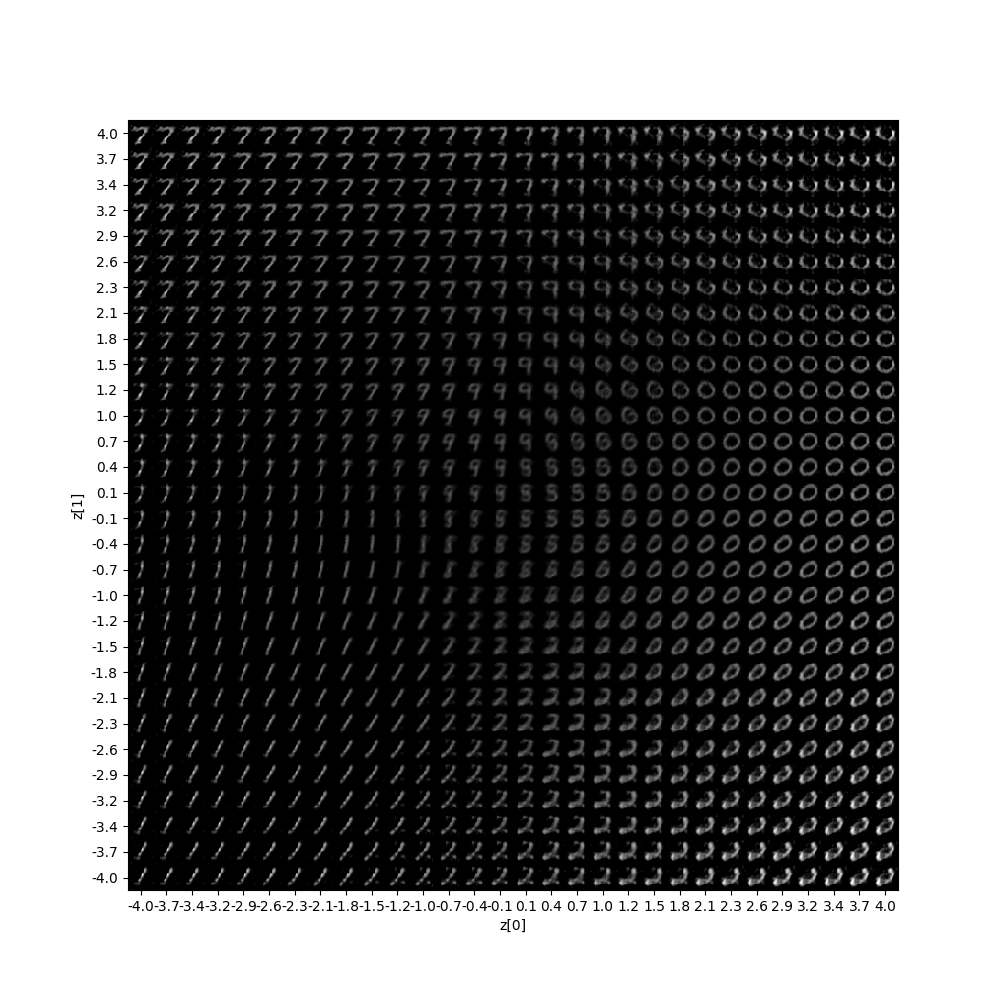
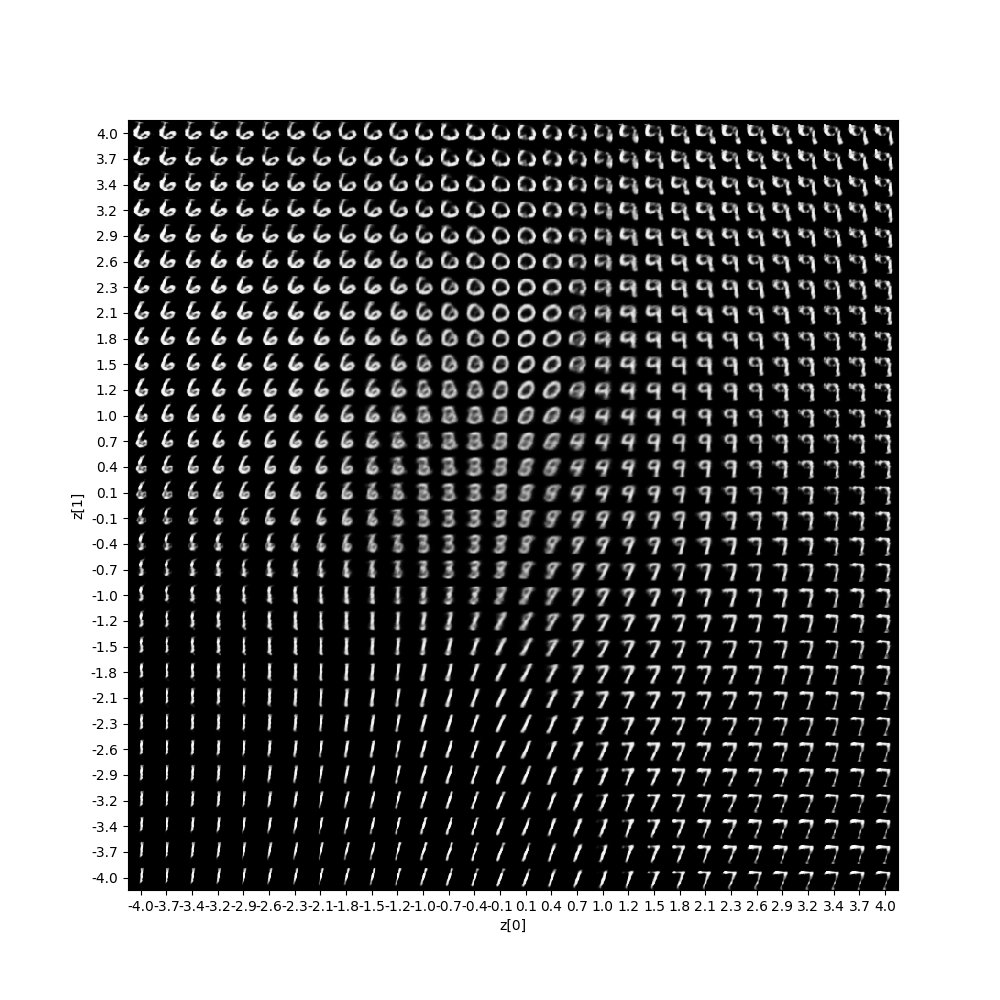
further development on VAE model, added data folder

Changed region(s): [[0.124, 0.124, 0.899, 0.899]]

diff --git a/Autoencoder/Models.py b/Autoencoder/Models.py
@@ -5,20 +5,28 @@ import os
 
 from keras.layers import Lambda, Input, Conv2D, MaxPooling2D, UpSampling2D, Dense, Flatten, Reshape
 from keras.models import Model
-from keras.losses import mse
+from keras.losses import mse, binary_crossentropy
 from keras import backend as K
-from keras.utils import plot_model
+from keras.utils import plot_model, multi_gpu_model
 from keras.datasets import mnist
+from keras import optimizers
 
 #TODO build VAE class
 class VAE:
 
-    def __init__(self, input_shape, layers, filters, latent_dims):
+    def __init__(self, input_shape, layers, filters, latent_dims, beta, lr):
         self.encoder = self.encoder_model(input_shape, layers, filters, latent_dims)
         self.decoder = self.decoder_model(input_shape, layers, filters, latent_dims)
         self.inputs = self.encoder.inputs
         self.outputs = self.decoder(self.encoder(self.encoder.inputs)[2])
         self.autoencoder = Model(self.inputs, self.outputs, name='Autoencoder')
+        self._params = {'in_shape' : input_shape,
+                        'layers' : layers,
+                        'filters' : filters,
+                        'latent_dims' : latent_dims,
+                        'beta' : beta * latent_dims / input_shape[1]**2,
+                        'learning_rate' : lr,
+                       }
 
     #TODO build encoder model, variable n. of layers, mean and sigma latent space
     def encoder_model(self, input_shape, layers, filters, latent_dims):
@@ -51,6 +59,8 @@ class VAE:
         self.z = Lambda(VAE_sampling, output_shape=(latent_dims,), name='z')([self.z_mean,self.z_sigma])
         encoder = Model(l[0], [self.z_mean,self.z_sigma,self.z], name='encoder')
 
+        encoder.summary()
+
         return encoder
 
     def decoder_model(self, input_shape, layers, filters, latent_dims):
@@ -81,15 +91,21 @@ class VAE:
                             data_format='channels_last', name='DeConv_'+str(i),
                             activation='relu')(l[i*2+1]))
 
+        l.append(Conv2D(1, (3,3), padding='same',
+                        data_format='channels_last', name='decoder_output',
+                        activation='sigmoid')(l[-1]))
+
         decoder = Model(latent_inputs, l[-1], name='decoder')
+
+        decoder.summary()
 
         return decoder
 
     def compile_model(self):
 
-        self.reconstruction_loss = mse(K.flatten(self.inputs), 
-                                       K.flatten(self.outputs))
-        self.reconstruction_loss *= self.autoencoder.input_shape[1]*self.autoencoder.input_shape[1]
+        self.reconstruction_loss = (binary_crossentropy(K.flatten(self.inputs), 
+                                       K.flatten(self.outputs)))
+        #self.reconstruction_loss *= self.autoencoder.input_shape[1]*self.autoencoder.input_shape[1]
 
         self.kl_loss = (1 + self.z_sigma - 
                   K.square(self.z_mean) - 
@@ -97,11 +113,18 @@ class VAE:
         self.kl_loss = K.sum(self.kl_loss, axis=-1)
         self.kl_loss *= -0.5
 
-        vae_loss = K.mean(self.reconstruction_loss+self.kl_loss)
+        vae_loss = K.mean(self.reconstruction_loss+self._params['beta']*self.kl_loss)
 
         self.autoencoder.add_loss(vae_loss)
 
-        self.autoencoder.compile(optimizer='adam')
+        try:
+            self.autoencoder = multi_gpu_model(self.autoencoder, gpus=2)
+            print("Training using multiple GPUs..")
+        except ValueError:
+            self.autoencoder = self.autoencoder
+            print("Training using single GPU or CPU..")
+
+        self.autoencoder.compile(optimizers.Adam(lr=self._params['learning_rate']))
 
     def plot_models(self):
         self.autoencoder.summary()
@@ -193,22 +216,30 @@ def plot_results(models,
 
 if __name__ == '__main__':
     (x_train, y_train), (x_test, y_test) = mnist.load_data()
+
     image_size = x_train.shape[1]
     x_train = np.reshape(x_train, [-1, image_size, image_size, 1])
     x_test = np.reshape(x_test, [-1, image_size, image_size, 1])
     x_train = x_train.astype('float32') / 255
     x_test = x_test.astype('float32') / 255
+
     input_shape = x_train.shape[1:]
     layers = 2
-    filters = [1,5]
+    filters = [16,8]
     latent = 2
-    epochs = 50
-    batch_size = 128
-    vae = VAE(input_shape, layers, filters, latent)
+    beta = 5
+    lr = 1e-4
+
+    epochs = 500
+    batch_size =1024
+
+    vae = VAE(input_shape, layers, filters, latent, beta, lr)
     vae.compile_model()
-    #vae.autoencoder.fit(x_train, epochs=epochs, batch_size=batch_size, validation_data=(x_test, None))
-    #vae.autoencoder.save_weights('vae_mlp_mnist.h5')
-    vae.autoencoder.load_weights('vae_mlp_mnist.h5')
+
+    vae.autoencoder.fit(x_train, epochs=epochs, batch_size=batch_size, validation_data=(x_test, None))
+    vae.autoencoder.save_weights('vae_mlp_mnist.h5')
+    #vae.autoencoder.load_weights('vae_mlp_mnist.h5')
+
     models = (vae.encoder, vae.decoder)
     data = (x_test, y_test)
     plot_results(models, data, batch_size=batch_size, model_name="vae_cnn")
